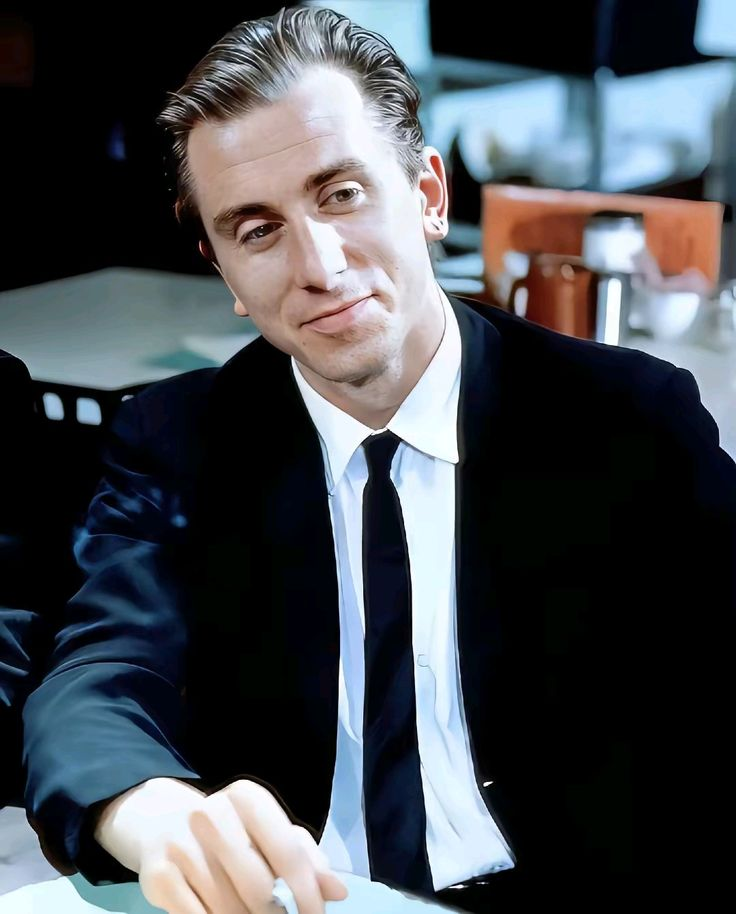
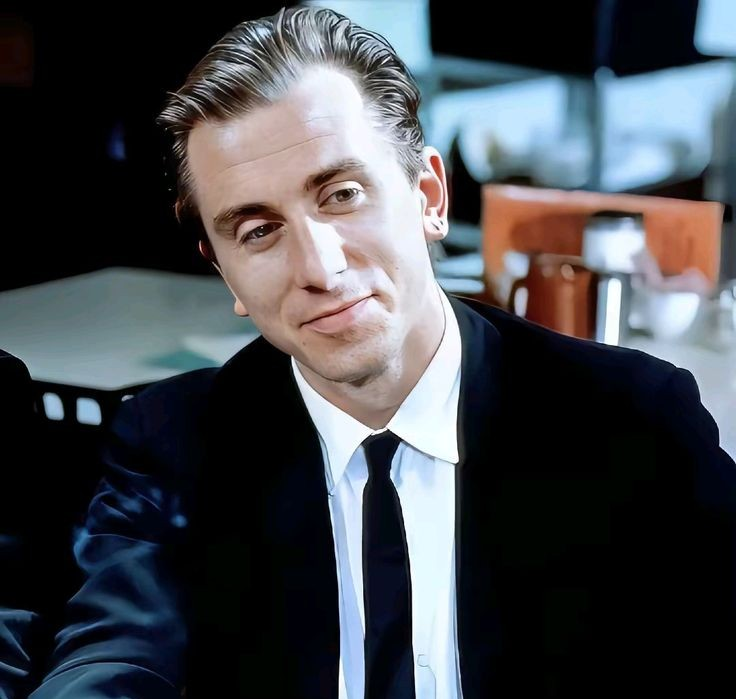
feat: adicionando funcionalidade DOM  no botão não assisti

diff --git a/public/filmes.html b/public/filmes.html
@@ -19,7 +19,7 @@
 </head>
 
 <header>
-    <div class="banner">
+    <div id="inicio" class="banner">
 
         <div class="container-grid">
 
@@ -51,11 +51,11 @@
 
 <body>
 
-    <div class="container-caesdealuguel">
+    <div class="container-caesdealuguel sessao-filme">
 
         <div class="inicio">
             <div class="logoCaesdeAluguel">
-                <img src="../public/img/caesDeAluguelLogo.png" alt="">
+                <img src="img/caesDeAluguelLogo.png" alt="">
 
                 <div class="subtitulo">
                     <p>1992 • 1h 39m • Crime, Thriller</p>
@@ -159,17 +159,17 @@
 
         <div class="botaoFinal ">
             <button onclick="abrirModal()">Já assisti</button>
-            <button>Não assisti</button>
+            <button onclick="pularFilme(this)">Não assisti</button>
         </div>
 
     </div>
 
 
-    <div class="container-pulpfiction">
+    <div class="container-pulpfiction sessao-filme">
 
         <div class="inicio">
             <div class="logoPulpFiction">
-                <img src="../public/img/pulpFictionLogo.png" alt="">
+                <img src="img/pulpFictionLogo.png" alt="">
 
                 <div class="subtitulo">
                     <p>1994 • 2h 34m • Crime, Drama</p>
@@ -270,20 +270,20 @@
             </div>
         </div>
 
-        <div class="botaoFinal ">
+        <div class="botaoFinal">
             <button onclick="abrirModal()">Já assisti</button>
-            <button>Não assisti</button>
+            <button onclick="pularFilme(this)">Não assisti</button>
         </div>
 
     </div>
 
 
 
-    <div class="container-jackieBrown">
+    <div class="container-jackieBrown sessao-filme">
 
         <div class="inicio">
             <div class="logoJackieBrown">
-                <img src="../public/img/jackieBrownLogo.png" alt="">
+                <img src="img/jackieBrownLogo.png" alt="">
 
                 <div class="subtitulo">
                     <p>1997 • 2h 34m • Crime, Drama</p>
@@ -386,18 +386,18 @@
 
         <div class="botaoFinal">
             <button onclick="abrirModal()">Já assisti</button>
-            <button>Não assisti</button>
+            <button onclick="pularFilme(this)">Não assisti</button>
         </div>
 
     </div>
 
 
 
-    <div class="container-killBill1">
+    <div class="container-killBill1 sessao-filme">
 
         <div class="inicio">
             <div class="logoKillBill1">
-                <img src="../public/img/KillBillLogo.png" alt="">
+                <img src="img/KillBillLogo.png" alt="">
 
                 <div class="subtitulo">
                     <p style="color: black;">2003 • 1h 51m • Action, Crime</p>
@@ -500,17 +500,17 @@
 
         <div class="botaoFinalPreto">
             <button onclick="abrirModal()">Já assisti</button>
-            <button>Não assisti</button>
+            <button onclick="pularFilme(this)">Não assisti</button>
         </div>
 
     </div>
 
 
-    <div class="container-killBill2">
+    <div class="container-killBill2 sessao-filme">
 
         <div class="inicio">
             <div class="logoKillBill2">
-                <img src="../public/img/KillBillLogo2.png" alt="">
+                <img src="img/KillBillLogo2.png" alt="">
 
                 <div class="subtitulo">
                     <p style="color: black;">2004 • 2h 17m • Action, Crime</p>
@@ -614,17 +614,17 @@
 
         <div class="botaoFinalPreto">
             <button onclick="abrirModal()">Já assisti</button>
-            <button>Não assisti</button>
+            <button onclick="pularFilme(this)">Não assisti</button>
         </div>
 
     </div>
 
 
-    <div class="container-aProvadeMorte">
+    <div class="container-aProvadeMorte sessao-filme">
 
         <div class="inicio">
             <div class="logoaProvadeMorte">
-                <img src="../public/img/aprovaDeMorte.png" alt="">
+                <img src="img/aprovaDeMorte.png" alt="">
 
                 <div class="subtitulo">
                     <p>2007 • 1h 53m • Action, Thriller</p>
@@ -728,17 +728,17 @@
 
         <div class="botaoFinal">
             <button onclick="abrirModal()">Já assisti</button>
-            <button>Não assisti</button>
+            <button onclick="pularFilme(this)">Não assisti</button>
         </div>
 
     </div>
 
 
-    <div class="container-bastardosInglorios">
+    <div class="container-bastardosInglorios sessao-filme">
 
         <div class="inicio">
             <div class="logoBastardosInglorios">
-                <img src="../public/img/bastardoInglorios.png" alt="">
+                <img src="img/bastardoInglorios.png" alt="">
 
                 <div class="subtitulo">
                     <p style="color: black;">2009 • 2h 33m • Adventure, War</p>
@@ -841,18 +841,18 @@
         </div>
 
         <div class="botaoFinalPreto">
-            <button>Já assisti</button>
-            <button>Não assisti</button>
+            <button onclick="abrirModal()">Já assisti</button>
+            <button onclick="pularFilme(this)">Não assisti</button>
         </div>
 
     </div>
 
 
-    <div class="container-djangoLivre">
+    <div class="container-djangoLivre sessao-filme">
 
         <div class="inicio">
             <div class="logoDjangoLivre">
-                <img src="../public/img/djangoLogo.png" alt="">
+                <img src="img/djangoLogo.png" alt="">
 
                 <div class="subtitulo">
                     <p style="color: black;">2012 • 2h 45m • Drama, Western</p>
@@ -954,18 +954,18 @@
         </div>
 
         <div class="botaoFinalPreto">
-            <button>Já assisti</button>
-            <button>Não assisti</button>
+            <button onclick="abrirModal()">Já assisti</button>
+            <button onclick="pularFilme(this)">Não assisti</button>
         </div>
 
     </div>
 
 
-    <div class="container-oitoOdiados">
+    <div class="container-oitoOdiados sessao-filme">
 
         <div class="inicio">
             <div class="logoOitoOdiados">
-                <img src="../public/img/8odiadosLogo.png" alt="">
+                <img src="img/8odiadosLogo.png" alt="">
 
                 <div class="subtitulo">
                     <p style="color: black;">2015 • 2h 48m • Crime, Western</p>
@@ -1069,19 +1069,19 @@
 
         <div class="botaoFinalPreto">
             <button onclick="abrirModal()">Já assisti</button>
-            <button>Não assisti</button>
+            <button onclick="pularFilme(this)">Não assisti</button>
         </div>
 
     </div>
 
 
-    <div class="container-eraUmaVez">
+    <div class="container-eraUmaVez sessao-filme">
 
         <div class="inicio">
             <div class="logoEraUmaVez">
-                <img src="../public/img/eraUmaVezLogo.png" alt="">
+                <img src="img/eraUmaVezLogo.png" alt="">
 
-                <div class="subtitulo" style="color: black;">
+                <div class="subtitulo" style="color: white;">
                     <p>2019 • 2h 41m • Comedy, Drama</p>
                 </div>
             </div>
@@ -1183,7 +1183,7 @@
 
         <div class="botaoFinal">
             <button onclick="abrirModal()">Já assisti</button>
-            <button>Não assisti</button>
+            <button onclick="voltarAoInicio()">Não assisti</button>
         </div>
 
     </div>
@@ -1530,5 +1530,27 @@
 
         modal.showModal()
     }
+
+    function pularFilme(botaoClicado) {
+
+        let filmeAtual = botaoClicado.closest('.sessao-filme')
+
+        let proximoFilme = filmeAtual.nextElementSibling
+
+        if (proximoFilme) {
+
+            proximoFilme.scrollIntoView({
+                behavior: 'smooth',
+                block: 'start'
+            })
+
+        }
+
+    }
+
+    function voltarAoInicio() {
+        window.location.href = '#inicio'
+    }
+
 
 </script>

diff --git a/public/css/cadastroLogin.css b/public/css/cadastroLogin.css
@@ -1,11 +1,11 @@
 @font-face {
     font-family: "Cooper Black";
-    src: url(../../fontes/CooperFiveOpti-Black.otf);
+    src: url(fontes/CooperFiveOpti-Black.otf);
 }
 
 @font-face {
     font-family: "Aachen";
-    src: url(../../fontes/ufonts.com_aachen-bold-opentype.otf);
+    src: url(fontes/ufonts.com_aachen-bold-opentype.otf);
 }
 
 body {

diff --git a/public/css/home.css b/public/css/home.css
@@ -1,11 +1,11 @@
 @font-face {
     font-family: "Cooper Black";
-    src: url(../../fontes/CooperFiveOpti-Black.otf);
+    src: url(fontes/CooperFiveOpti-Black.otf);
 }
 
 @font-face {
     font-family: "Aachen";
-    src: url(../../fontes/ufonts.com_aachen-bold-opentype.otf);
+    src: url(fontes/ufonts.com_aachen-bold-opentype.otf);
 }
 
 * {

diff --git a/public/css/avaliacao.css b/public/css/avaliacao.css
@@ -1,6 +1,6 @@
 @font-face {
     font-family: "Aachen";
-    src: url(../../fontes/ufonts.com_aachen-bold-opentype.otf);
+    src: url(fontes/ufonts.com_aachen-bold-opentype.otf);
 }
 
 

diff --git a/public/css/filmes.css b/public/css/filmes.css
@@ -1,6 +1,6 @@
 @font-face {
     font-family: "Aachen";
-    src: url(../../fontes/ufonts.com_aachen-bold-opentype.otf);
+    src: url(fontes/ufonts.com_aachen-bold-opentype.otf);
 }
 
 